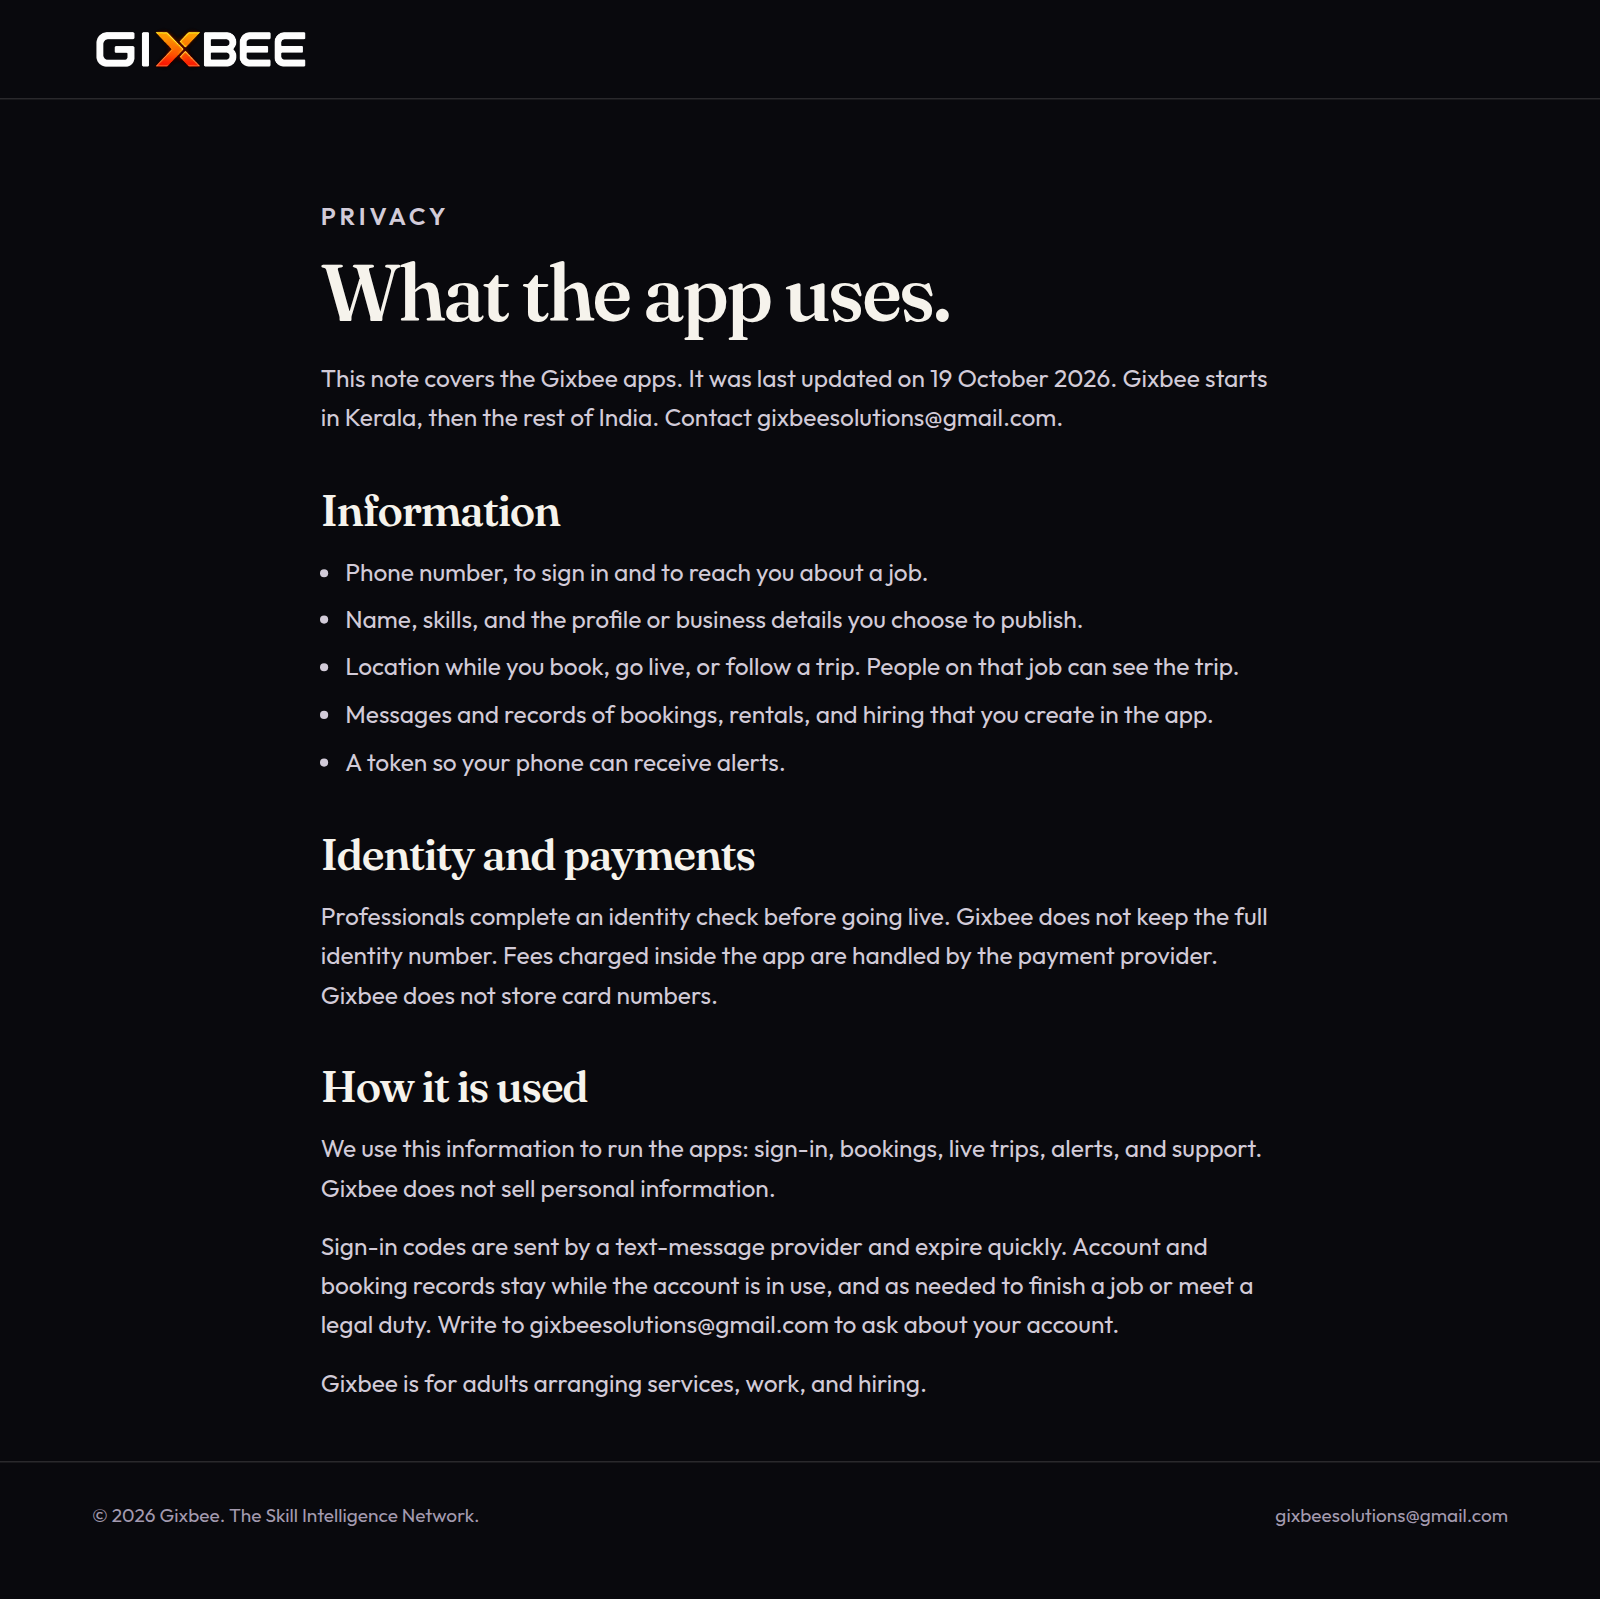
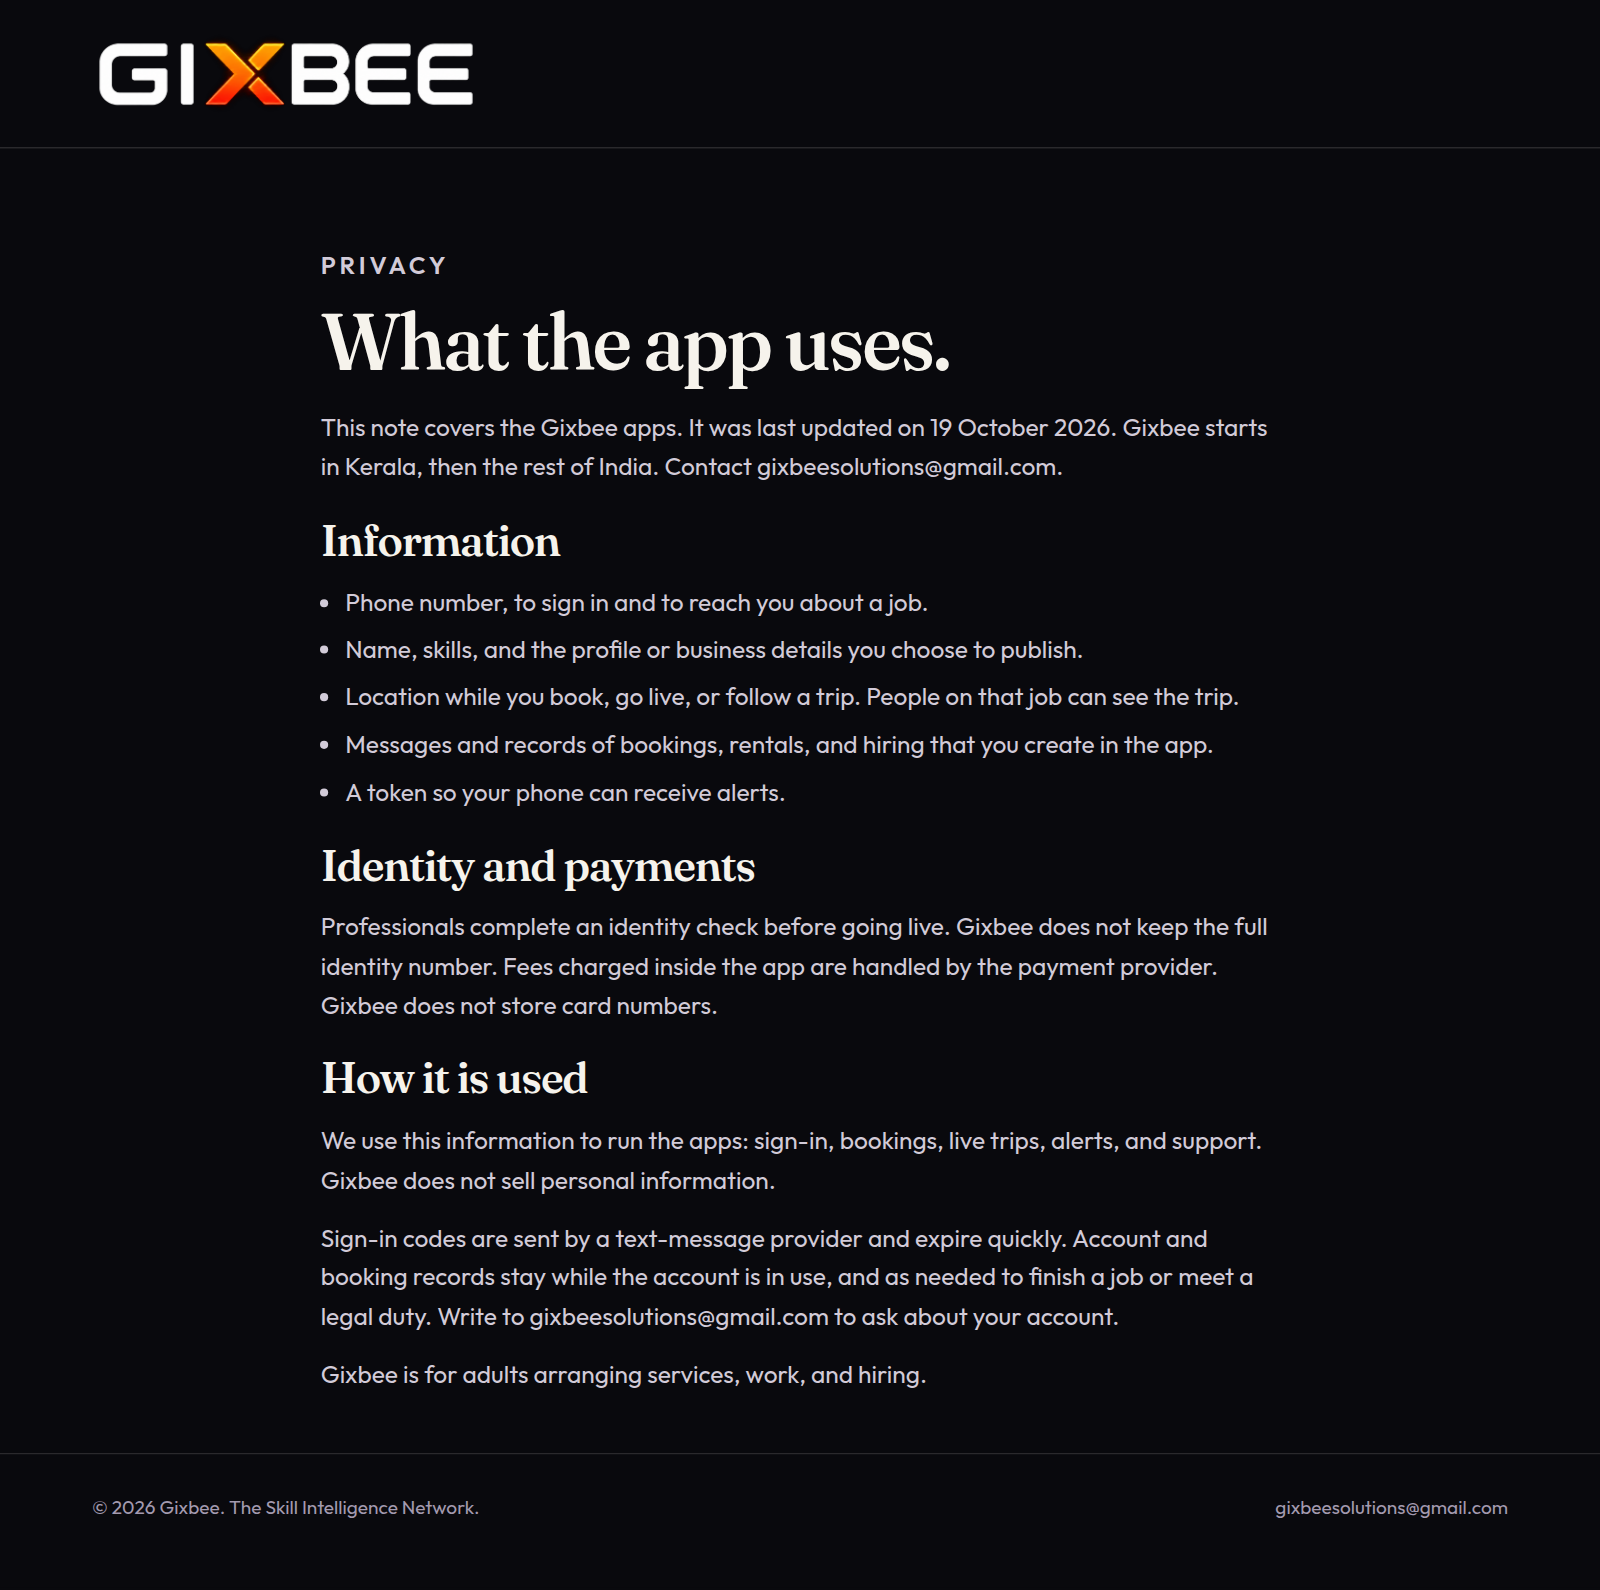
Enlarge the wordmark on every public page picture.
The header logo is taller so it reads clearly when the pictures are placed in Google Sites.

diff --git a/site/styles.css b/site/styles.css
@@ -81,10 +81,10 @@ p { margin: 0 0 14px; }
   align-items: center;
   justify-content: space-between;
   gap: 20px;
-  min-height: 72px;
+  min-height: 108px;
 }
 .brand { display: flex; align-items: center; text-decoration: none; }
-.brand img { height: 36px; width: auto; }
+.brand img { height: 64px; width: auto; }
 .nav-toggle { position: absolute; opacity: 0; pointer-events: none; }
 .nav-burger {
   display: none;
@@ -223,7 +223,7 @@ footer .wrap { display: flex; justify-content: space-between; gap: 16px; flex-wr
 footer a { color: var(--muted); }
 
 .prose { max-width: 44rem; }
-.prose h2 { font-size: 32px; margin-top: 36px; }
+.prose h2 { font-size: 32px; margin-top: 22px; }
 .prose h3 { font-family: var(--sans); font-size: 18px; letter-spacing: 0; margin-top: 22px; }
 
 @media (max-width: 1100px) {
